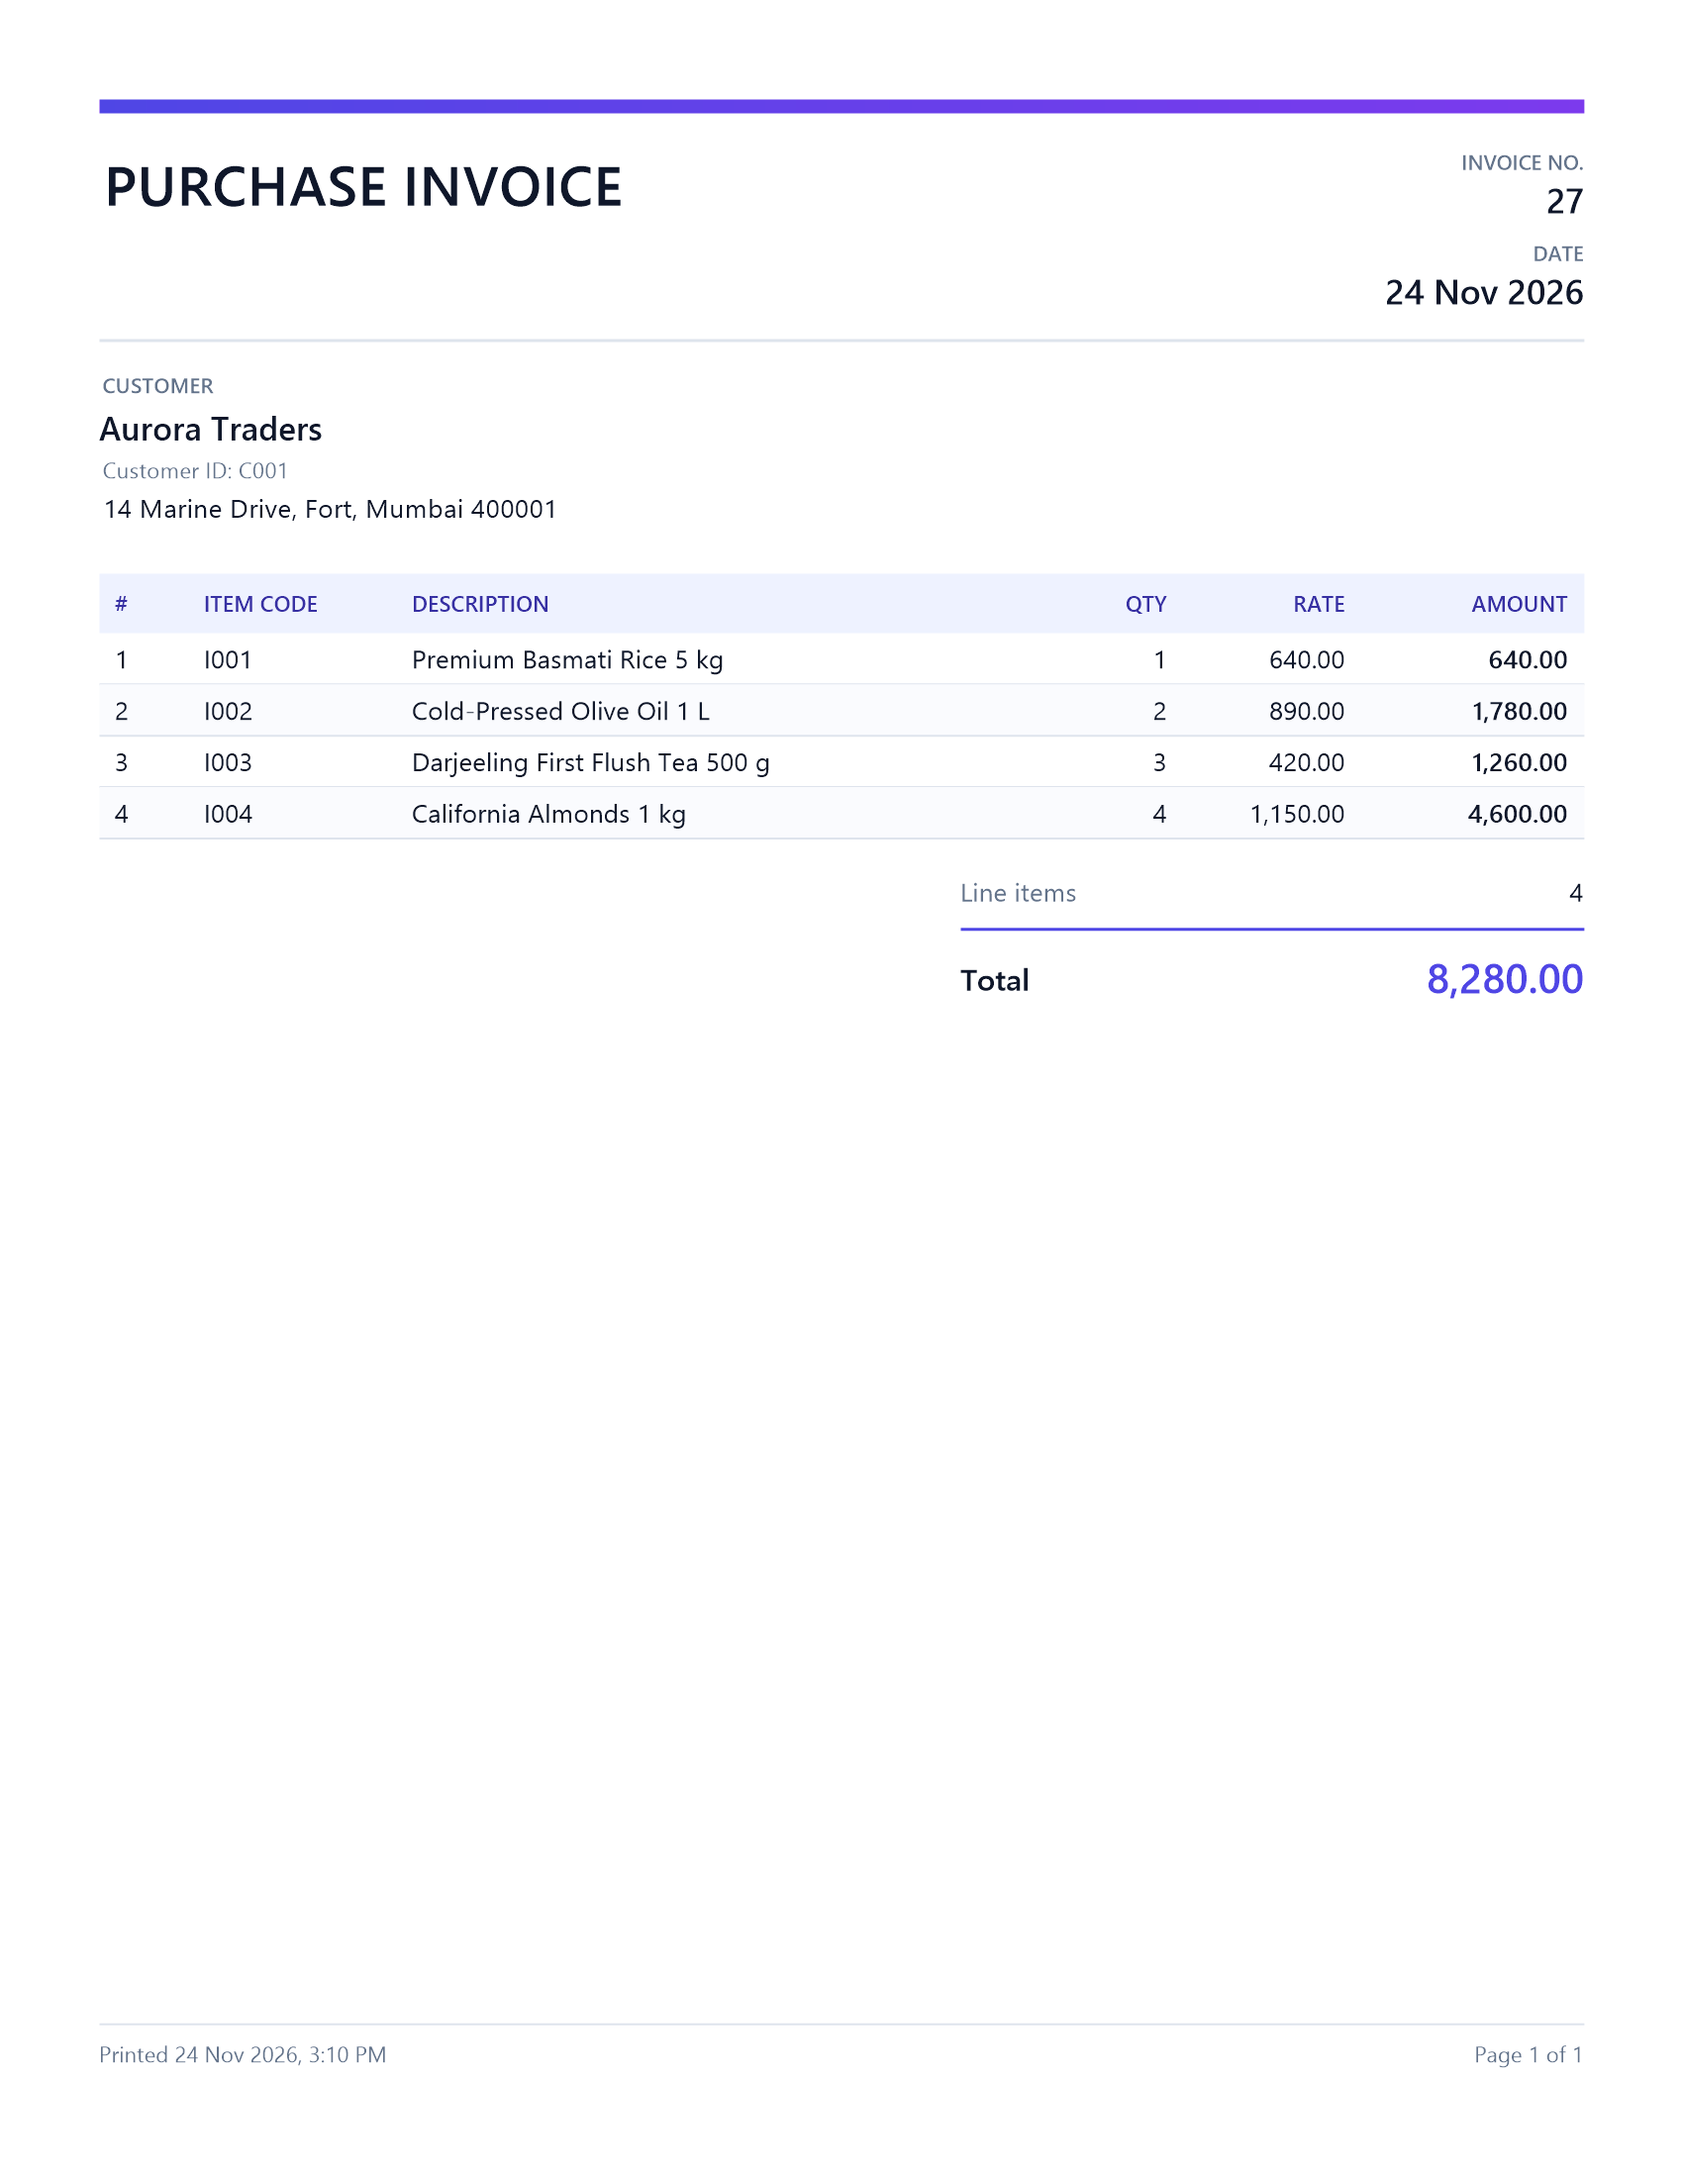
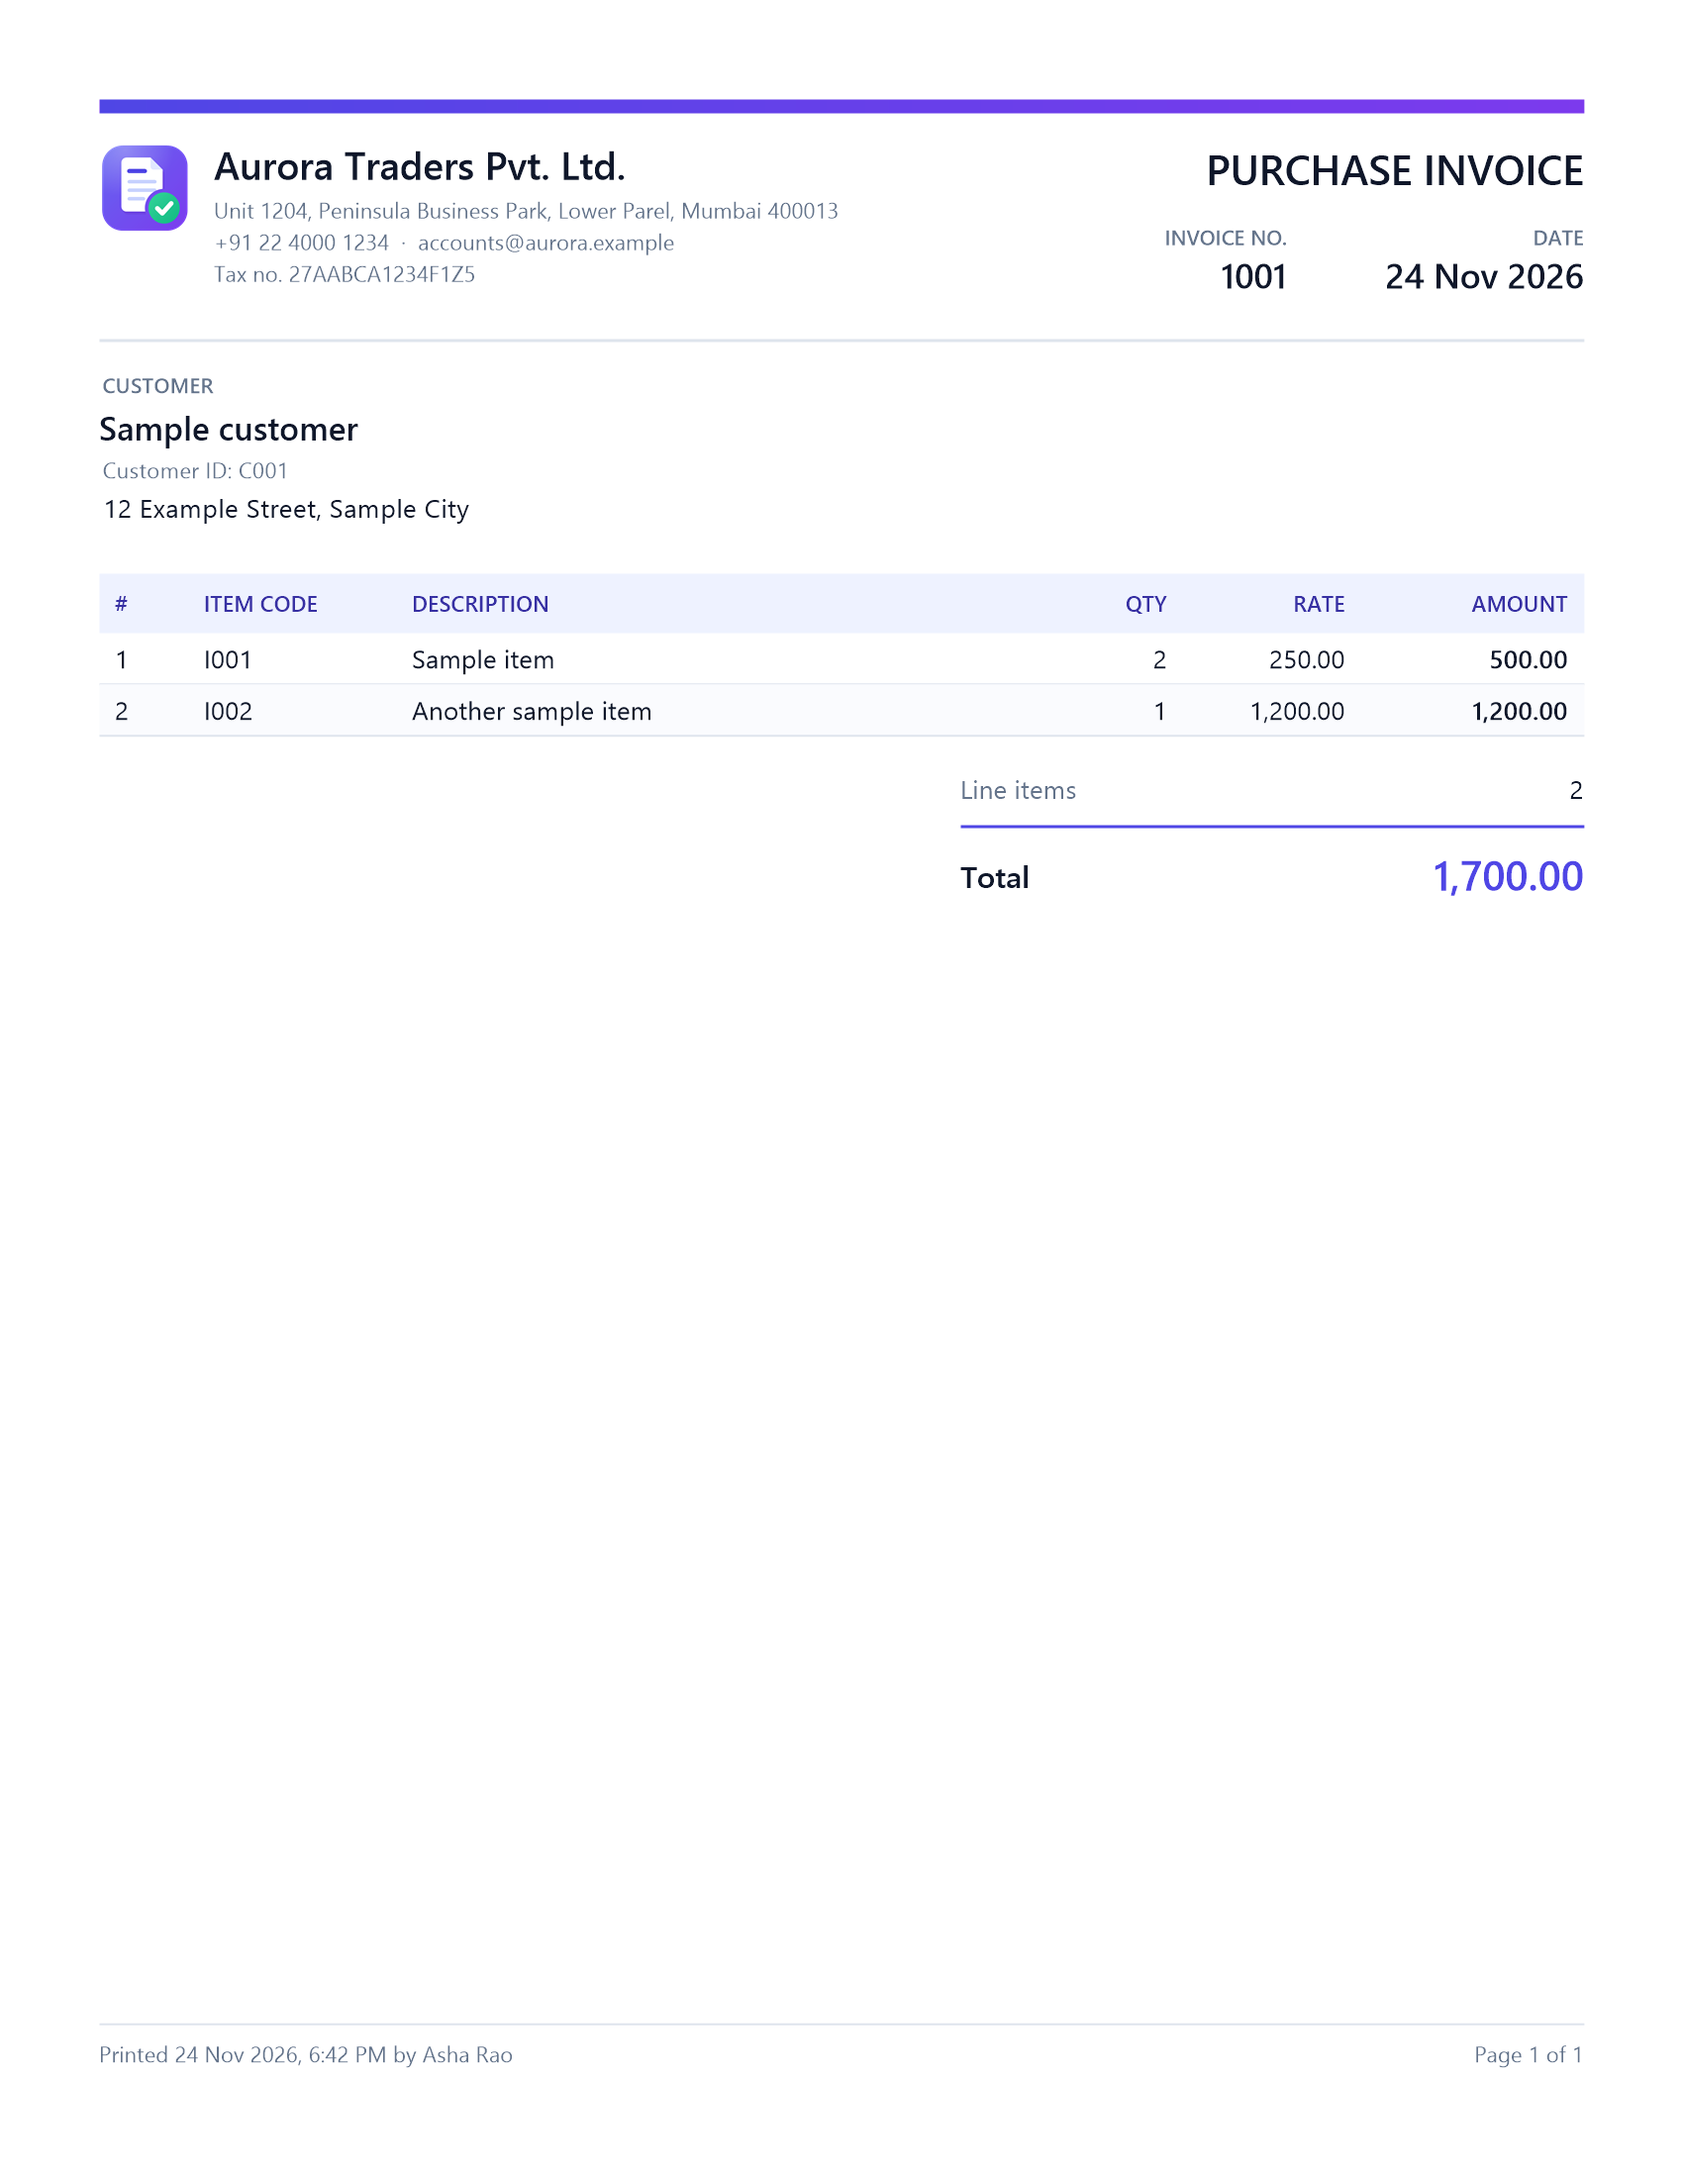
Polish layouts and add screenshots of the finished product
- Users: wider Status column, so "New password due" fits.
- Backup and restore: a tighter Restore card, so the confirmation box
  and the Restore button fit on smaller screens at 150% scaling.
- Screenshots of every new screen (sign-in, first run, main window,
  users, activity log, company profile, reports, backup, about, setup)
  and of the printed invoice and report, taken with sample data.

diff --git a/PurchaseInvoices/BackupForm.Designer.cs b/PurchaseInvoices/BackupForm.Designer.cs
@@ -79,7 +79,7 @@ namespace PurchaseInvoices
             this.footerPanel.Controls.Add(this.lblTarget);
             this.footerPanel.Controls.Add(this.btnClose);
             this.footerPanel.Dock = System.Windows.Forms.DockStyle.Bottom;
-            this.footerPanel.Location = new System.Drawing.Point(0, 640);
+            this.footerPanel.Location = new System.Drawing.Point(0, 610);
             this.footerPanel.Name = "footerPanel";
             this.footerPanel.Size = new System.Drawing.Size(760, 60);
             this.footerPanel.TabIndex = 2;
@@ -113,7 +113,7 @@ namespace PurchaseInvoices
             this.contentPanel.Location = new System.Drawing.Point(0, 64);
             this.contentPanel.Name = "contentPanel";
             this.contentPanel.Padding = new System.Windows.Forms.Padding(14, 8, 14, 8);
-            this.contentPanel.Size = new System.Drawing.Size(760, 576);
+            this.contentPanel.Size = new System.Drawing.Size(760, 546);
             this.contentPanel.TabIndex = 1;
             //
             // restoreCard
@@ -129,9 +129,9 @@ namespace PurchaseInvoices
             this.restoreCard.Controls.Add(this.btnRestore);
             this.restoreCard.Dock = System.Windows.Forms.DockStyle.Fill;
             this.restoreCard.Glyph = "";
-            this.restoreCard.Location = new System.Drawing.Point(14, 204);
+            this.restoreCard.Location = new System.Drawing.Point(14, 194);
             this.restoreCard.Name = "restoreCard";
-            this.restoreCard.Size = new System.Drawing.Size(732, 364);
+            this.restoreCard.Size = new System.Drawing.Size(732, 344);
             this.restoreCard.TabIndex = 1;
             this.restoreCard.Title = "Restore";
             //
@@ -157,7 +157,7 @@ namespace PurchaseInvoices
             this.grid.MultiSelect = false;
             this.grid.Name = "grid";
             this.grid.ReadOnly = true;
-            this.grid.Size = new System.Drawing.Size(684, 108);
+            this.grid.Size = new System.Drawing.Size(684, 88);
             this.grid.TabIndex = 0;
             this.grid.SelectionChanged += new System.EventHandler(this.grid_SelectionChanged);
             //
@@ -166,7 +166,7 @@ namespace PurchaseInvoices
             this.lblFile.AutoSize = true;
             this.lblFile.Font = new System.Drawing.Font("Segoe UI Semibold", 9F);
             this.lblFile.ForeColor = System.Drawing.Color.FromArgb(71, 85, 105);
-            this.lblFile.Location = new System.Drawing.Point(24, 202);
+            this.lblFile.Location = new System.Drawing.Point(24, 182);
             this.lblFile.Name = "lblFile";
             this.lblFile.Size = new System.Drawing.Size(68, 15);
             this.lblFile.TabIndex = 11;
@@ -177,7 +177,7 @@ namespace PurchaseInvoices
             this.hostFile.Anchor = ((System.Windows.Forms.AnchorStyles)(((System.Windows.Forms.AnchorStyles.Top | System.Windows.Forms.AnchorStyles.Left)
             | System.Windows.Forms.AnchorStyles.Right)));
             this.hostFile.Controls.Add(this.txtFile);
-            this.hostFile.Location = new System.Drawing.Point(24, 222);
+            this.hostFile.Location = new System.Drawing.Point(24, 200);
             this.hostFile.Name = "hostFile";
             this.hostFile.Placeholder = "Pick a backup above, or browse to a .bak file";
             this.hostFile.Size = new System.Drawing.Size(564, 36);
@@ -196,7 +196,7 @@ namespace PurchaseInvoices
             //
             this.btnBrowseFile.Anchor = ((System.Windows.Forms.AnchorStyles)((System.Windows.Forms.AnchorStyles.Top | System.Windows.Forms.AnchorStyles.Right)));
             this.btnBrowseFile.Font = new System.Drawing.Font("Segoe UI Semibold", 9.75F);
-            this.btnBrowseFile.Location = new System.Drawing.Point(598, 222);
+            this.btnBrowseFile.Location = new System.Drawing.Point(598, 200);
             this.btnBrowseFile.Name = "btnBrowseFile";
             this.btnBrowseFile.Size = new System.Drawing.Size(110, 36);
             this.btnBrowseFile.TabIndex = 2;
@@ -209,9 +209,9 @@ namespace PurchaseInvoices
             | System.Windows.Forms.AnchorStyles.Right)));
             this.lblFileInfo.Font = new System.Drawing.Font("Segoe UI", 9F);
             this.lblFileInfo.ForeColor = System.Drawing.Color.FromArgb(100, 116, 139);
-            this.lblFileInfo.Location = new System.Drawing.Point(24, 262);
+            this.lblFileInfo.Location = new System.Drawing.Point(24, 238);
             this.lblFileInfo.Name = "lblFileInfo";
-            this.lblFileInfo.Size = new System.Drawing.Size(684, 34);
+            this.lblFileInfo.Size = new System.Drawing.Size(684, 32);
             this.lblFileInfo.TabIndex = 12;
             //
             // lblConfirm
@@ -219,7 +219,7 @@ namespace PurchaseInvoices
             this.lblConfirm.AutoSize = true;
             this.lblConfirm.Font = new System.Drawing.Font("Segoe UI Semibold", 9F);
             this.lblConfirm.ForeColor = System.Drawing.Color.FromArgb(71, 85, 105);
-            this.lblConfirm.Location = new System.Drawing.Point(24, 296);
+            this.lblConfirm.Location = new System.Drawing.Point(24, 272);
             this.lblConfirm.Name = "lblConfirm";
             this.lblConfirm.Size = new System.Drawing.Size(200, 15);
             this.lblConfirm.TabIndex = 13;
@@ -228,7 +228,7 @@ namespace PurchaseInvoices
             // hostConfirm
             //
             this.hostConfirm.Controls.Add(this.txtConfirm);
-            this.hostConfirm.Location = new System.Drawing.Point(24, 316);
+            this.hostConfirm.Location = new System.Drawing.Point(24, 290);
             this.hostConfirm.Name = "hostConfirm";
             this.hostConfirm.Size = new System.Drawing.Size(300, 36);
             this.hostConfirm.TabIndex = 3;
@@ -249,7 +249,7 @@ namespace PurchaseInvoices
             this.btnRestore.Font = new System.Drawing.Font("Segoe UI Semibold", 9.75F);
             this.btnRestore.Glyph = "";
             this.btnRestore.Kind = PurchaseInvoices.ButtonKind.Danger;
-            this.btnRestore.Location = new System.Drawing.Point(548, 315);
+            this.btnRestore.Location = new System.Drawing.Point(548, 289);
             this.btnRestore.Name = "btnRestore";
             this.btnRestore.Size = new System.Drawing.Size(160, 38);
             this.btnRestore.TabIndex = 4;
@@ -268,7 +268,7 @@ namespace PurchaseInvoices
             this.backupCard.Glyph = "";
             this.backupCard.Location = new System.Drawing.Point(14, 8);
             this.backupCard.Name = "backupCard";
-            this.backupCard.Size = new System.Drawing.Size(732, 196);
+            this.backupCard.Size = new System.Drawing.Size(732, 186);
             this.backupCard.TabIndex = 0;
             this.backupCard.Title = "Back up";
             //
@@ -329,7 +329,7 @@ namespace PurchaseInvoices
             | System.Windows.Forms.AnchorStyles.Right)));
             this.lblBackupStatus.Font = new System.Drawing.Font("Segoe UI Semibold", 9F);
             this.lblBackupStatus.ForeColor = System.Drawing.Color.FromArgb(100, 116, 139);
-            this.lblBackupStatus.Location = new System.Drawing.Point(24, 138);
+            this.lblBackupStatus.Location = new System.Drawing.Point(24, 134);
             this.lblBackupStatus.Name = "lblBackupStatus";
             this.lblBackupStatus.Size = new System.Drawing.Size(510, 40);
             this.lblBackupStatus.TabIndex = 12;
@@ -341,7 +341,7 @@ namespace PurchaseInvoices
             this.btnBackup.Font = new System.Drawing.Font("Segoe UI Semibold", 9.75F);
             this.btnBackup.Glyph = "";
             this.btnBackup.Kind = PurchaseInvoices.ButtonKind.Primary;
-            this.btnBackup.Location = new System.Drawing.Point(548, 139);
+            this.btnBackup.Location = new System.Drawing.Point(548, 135);
             this.btnBackup.Name = "btnBackup";
             this.btnBackup.Size = new System.Drawing.Size(160, 38);
             this.btnBackup.TabIndex = 2;
@@ -353,7 +353,7 @@ namespace PurchaseInvoices
             this.AutoScaleDimensions = new System.Drawing.SizeF(96F, 96F);
             this.AutoScaleMode = System.Windows.Forms.AutoScaleMode.Dpi;
             this.BackColor = System.Drawing.Color.FromArgb(243, 245, 250);
-            this.ClientSize = new System.Drawing.Size(760, 700);
+            this.ClientSize = new System.Drawing.Size(760, 670);
             this.Controls.Add(this.contentPanel);
             this.Controls.Add(this.footerPanel);
             this.Controls.Add(this.headerPanel);

diff --git a/PurchaseInvoices/UsersForm.cs b/PurchaseInvoices/UsersForm.cs
@@ -34,11 +34,11 @@ namespace PurchaseInvoices
             cboRole.DropDownWidth = Theme.S(420);
             btnSave.BusyText = "Saving…";
             grid.AutoGenerateColumns = false;
-            AddColumn("UserName", "User name", 22);
-            AddColumn("FullName", "Full name", 30);
-            AddColumn("Role", "Role", 13);
-            AddColumn("Status", "Status", 15);
-            AddColumn("LastSignIn", "Last sign-in", 20);
+            AddColumn("UserName", "User name", 19);
+            AddColumn("FullName", "Full name", 26);
+            AddColumn("Role", "Role", 11);
+            AddColumn("Status", "Status", 21);
+            AddColumn("LastSignIn", "Last sign-in", 23);
         }
 
         public bool CurrentUserChanged { get; private set; }

diff --git a/PurchaseInvoices/BackupForm.cs b/PurchaseInvoices/BackupForm.cs
@@ -25,7 +25,7 @@ namespace PurchaseInvoices
         public BackupForm(string connectionString)
         {
             InitializeComponent();
-            Theme.StyleWindow(this, 700, 640);
+            Theme.StyleWindow(this, 700, 620);
             this.connectionString = connectionString;
             database = DatabaseBackup.TargetDatabase(connectionString);
             local = DatabaseBackup.IsLocalServer(connectionString);
